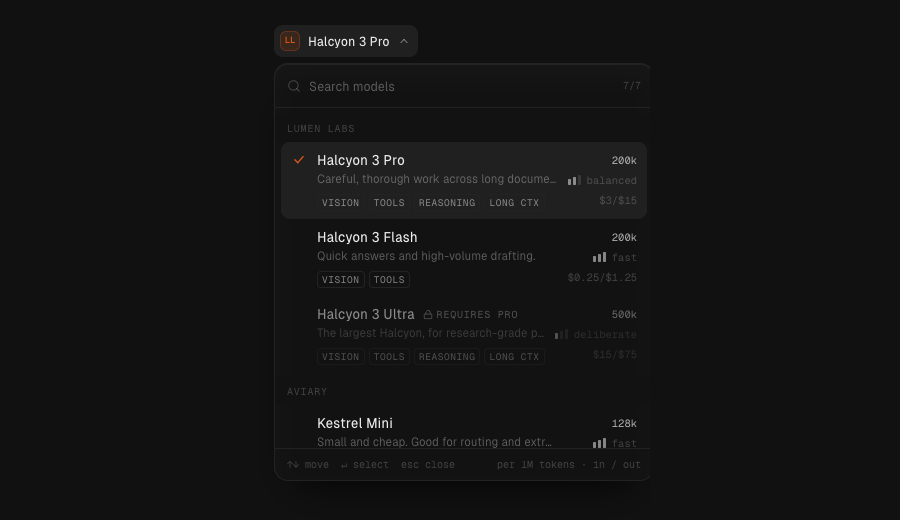
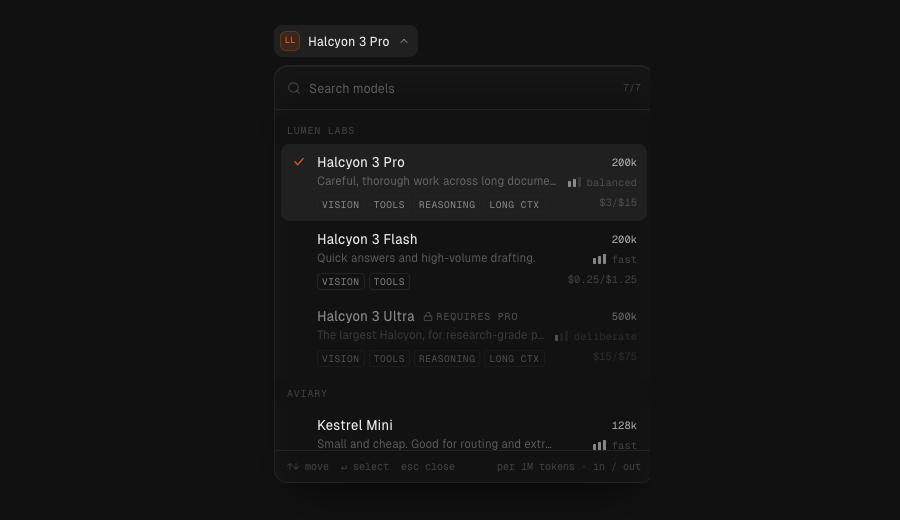
Drop the model selector menu a little lower

diff --git a/components/bjork-ui/ai/model-selector.tsx b/components/bjork-ui/ai/model-selector.tsx
@@ -143,7 +143,8 @@ const CAPABILITY_LABEL: Record<ModelCapability, string> = {
 const SPEED_LEVEL: Record<ModelSpeed, number> = { fast: 3, balanced: 2, deliberate: 1 };
 // Room kept between the menu and the viewport edge.
 const EDGE = 12;
-const GAP = 6;
+// Room between the trigger and the menu. Matches the house popover spacing (8px).
+const GAP = 8;
 
 function monogram(provider: string): string {
   const words = provider.split(/\s+/).filter(Boolean);
@@ -409,13 +410,13 @@ export function ModelSelector({
           ref={panelRef}
           data-side={side}
           className={cn(
-            "absolute left-0 top-[calc(100%+6px)] z-40 flex w-[min(380px,calc(100vw-24px))] flex-col overflow-hidden rounded-[14px] border border-[color:var(--bjork-border)] bg-[color:var(--bjork-menu)] shadow-[var(--bjork-shadow-menu)] backdrop-blur-md",
+            "absolute left-0 top-[calc(100%+8px)] z-40 flex w-[min(380px,calc(100vw-24px))] flex-col overflow-hidden rounded-[14px] border border-[color:var(--bjork-border)] bg-[color:var(--bjork-menu)] shadow-[var(--bjork-shadow-menu)] backdrop-blur-md",
             "data-[side=bottom]:origin-top data-[side=top]:origin-bottom",
             !reduce && "motion-safe:animate-[bjork-model-pop_180ms_cubic-bezier(0.23,1,0.32,1)]",
           )}
         >
           <style href="bjork-model-selector-pop" precedence="default">
-            {"@keyframes bjork-model-pop{from{opacity:0;transform:scale(0.97) translateY(-2px)}to{opacity:1;transform:none}}"}
+            {"@keyframes bjork-model-pop{from{opacity:0;transform:scale(0.97)}to{opacity:1;transform:none}}"}
           </style>
           <div className="flex h-11 shrink-0 items-center gap-2 border-b border-[color:var(--bjork-border)] px-3">
             <Search aria-hidden="true" size={14} strokeWidth={1.75} className="shrink-0 text-[color:var(--bjork-text-faint)]" />
